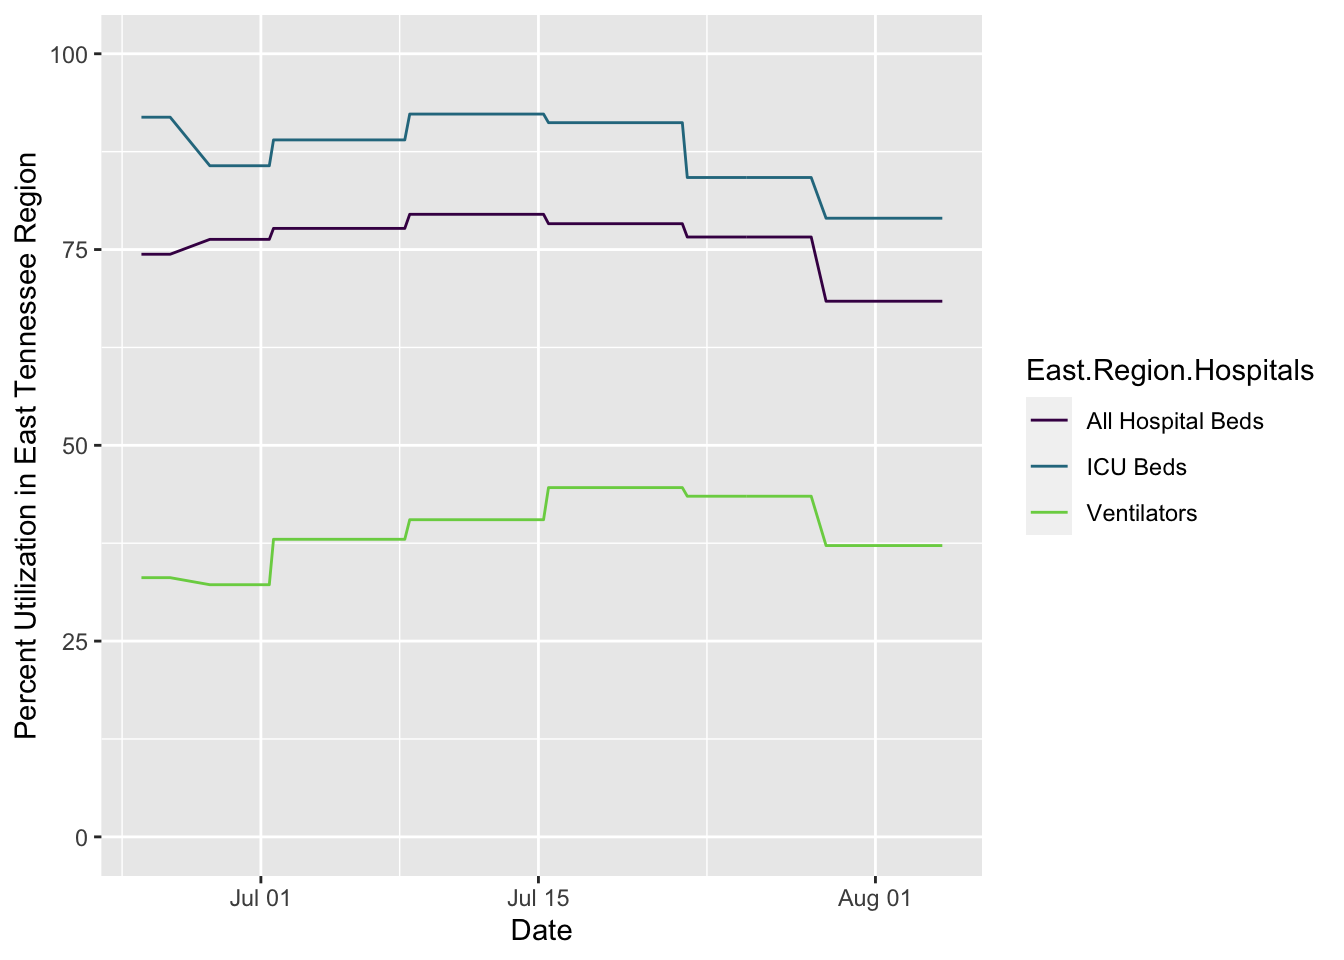
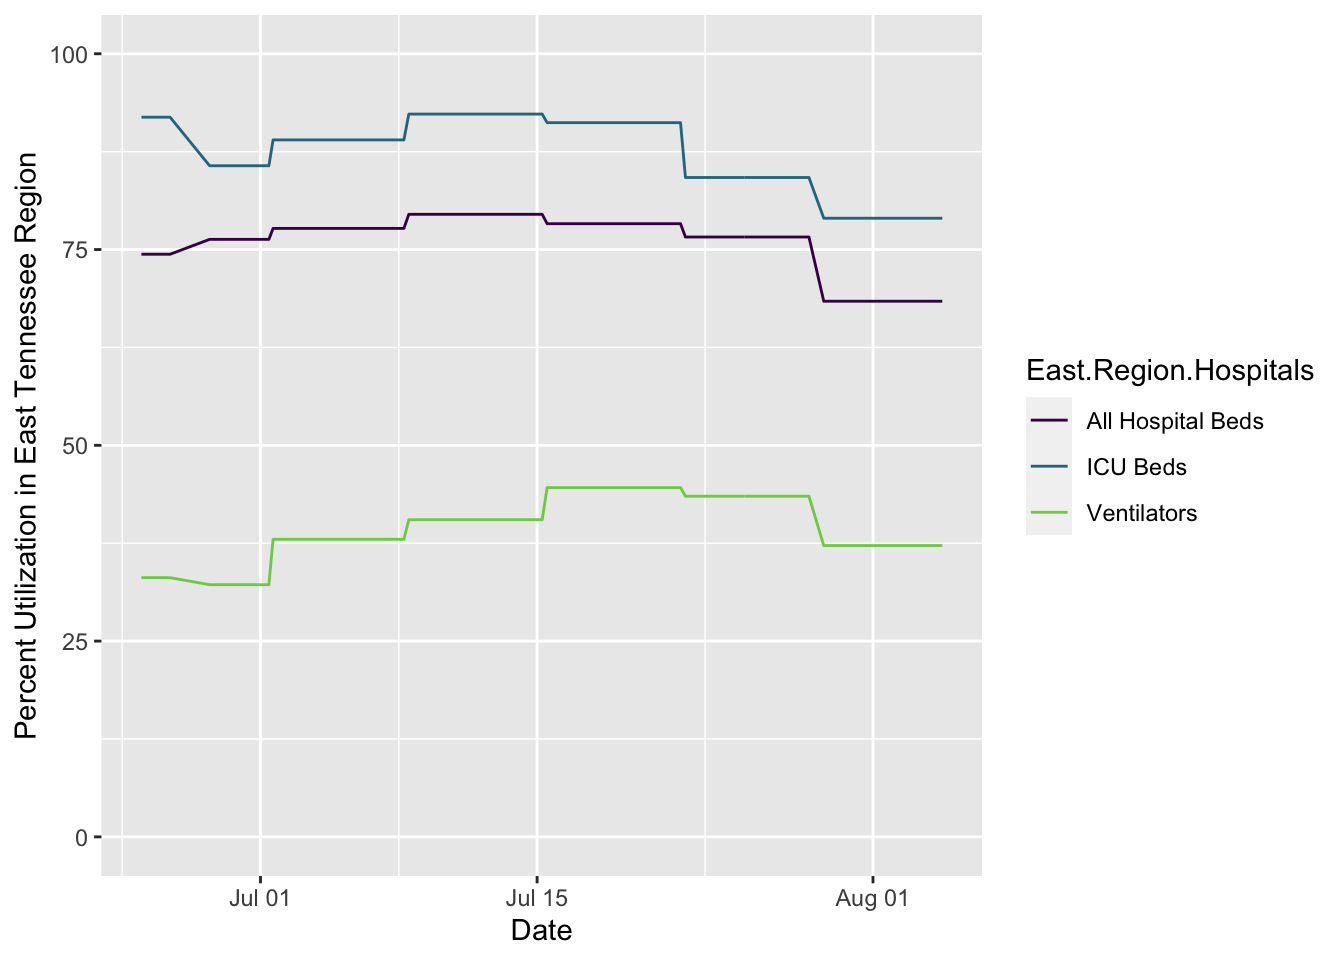
updating site

diff --git a/docs/covid.html b/docs/covid.html
@@ -423,7 +423,7 @@ $(document).ready(function () {
 <li>Info about cases at <a href="#ut">U. of Tennessee, Knoxville</a> (using public information only)</li>
 <li><a href="#webcams">Webcams</a> showing activity at local sites, though not quite at the resolution to point to mask usage or not</li>
 </ul>
-<p>The following plots are created in R using data from <a href="https://covid19datahub.io" class="uri">https://covid19datahub.io</a> (Guidotti, E., Ardia, D., (2020), “COVID-19 Data Hub”, Working paper, doi: 10.13140/RG.2.2.11649.81763), as well as information from Google and the <a href="https://www.tn.gov/health/cedep/ncov/data/downloadable-datasets.html">state of Tennessee dataset page</a> and plotting and analysis using the <code>forecast</code>, <code>ggplot2</code>, <code>reshape2</code>, and <code>dplyr</code> packages. Plots created on 2020-08-04 09:09:35. I use <code>ggplot2</code>’s <code>geom_smooth()</code> function for the smoothed regression plots with its default formula, which uses loess smoothing for this many points. This is not based on a model of disease spread or anything similarly sophisticated, just drawing a smooth curve to summarize noisy points (see <a href="https://www.itl.nist.gov/div898/handbook/pmd/section1/pmd144.htm">here</a> for more details).</p>
+<p>The following plots are created in R using data from <a href="https://covid19datahub.io" class="uri">https://covid19datahub.io</a> (Guidotti, E., Ardia, D., (2020), “COVID-19 Data Hub”, Working paper, doi: 10.13140/RG.2.2.11649.81763), as well as information from Google and the <a href="https://www.tn.gov/health/cedep/ncov/data/downloadable-datasets.html">state of Tennessee dataset page</a> and plotting and analysis using the <code>forecast</code>, <code>ggplot2</code>, <code>reshape2</code>, and <code>dplyr</code> packages. Plots created on 2020-08-04 14:27:30. I use <code>ggplot2</code>’s <code>geom_smooth()</code> function for the smoothed regression plots with its default formula, which uses loess smoothing for this many points. This is not based on a model of disease spread or anything similarly sophisticated, just drawing a smooth curve to summarize noisy points (see <a href="https://www.itl.nist.gov/div898/handbook/pmd/section1/pmd144.htm">here</a> for more details).</p>
 <h2 id="cases">
 Cases
 </h2>
